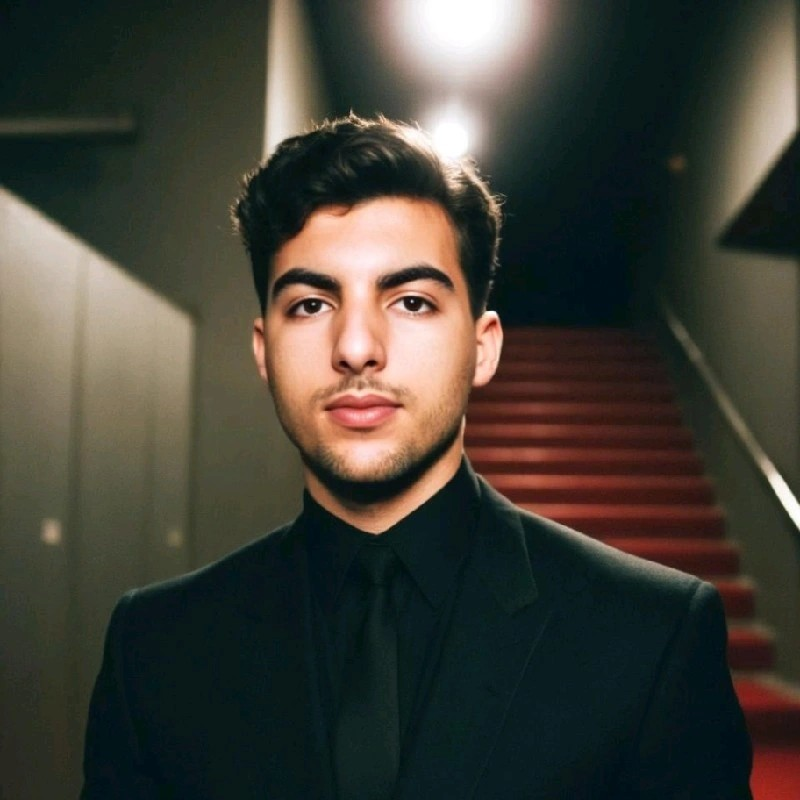
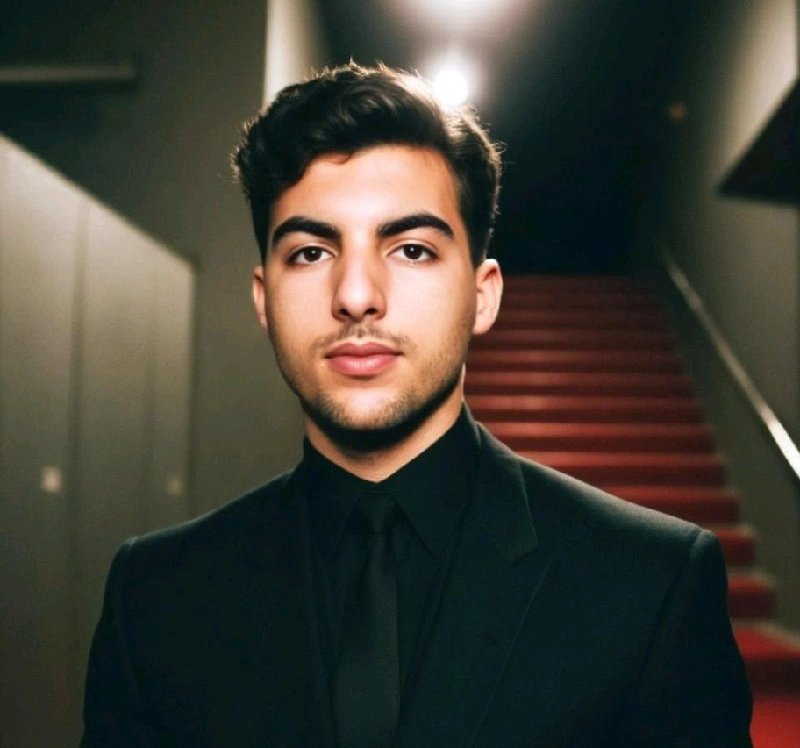
modification section participants

diff --git a/index.html b/index.html
@@ -19,6 +19,7 @@
 
   <div class="team-row" id="teamRow">
     <header class="team-intro">
+      <div class="eyebrow"><span class="num">02</span><span class="line"></span></div>
       <h2>Rencontrer <br>les participant·es</h2>
       <hr class="intro-divider">
       <p>Découvrez les profils des participantes et participants d'Initiative avenir, leurs parcours, leurs compétences et leurs ambitions professionnelles.</p>
@@ -47,8 +48,8 @@
     <p class="lead">Vous souhaitez soutenir Initiative Avenir et contribuer au parcours des participantes et participants? Faites-nous part de votre intérêt.</p>
 
     <div class="tagline">
-      <span>Ensemble,<br>on va plus loin.</span>
-      <svg width="46" height="16" viewBox="0 0 46 16" fill="none">
+      <!-- <span>Ensemble,<br>on va plus loin.</span> -->
+      <!-- <svg width="46" height="16" viewBox="0 0 46 16" fill="none"> -->
         <path d="M0 8H44M44 8L37 1M44 8L37 15" stroke="var(--color-primary)" stroke-width="2" stroke-linecap="round" stroke-linejoin="round"/>
       </svg>
     </div>

diff --git a/style.css b/style.css
@@ -101,7 +101,7 @@
   .team-intro{
     position:relative;
     flex:0 0 auto;
-    padding:0 0 0 15vw;
+    padding:0 15vw 0 15vw;
     box-sizing:border-box;
   }
   .team-intro h2{
@@ -115,7 +115,7 @@
   .team-intro p{
     font-size:20px;
     line-height:1.55;
-    color:var(--fg-dim);
+    color:var( --color-white);
     max-width:600px;
     margin:0 0px;
   }
@@ -139,7 +139,7 @@
     align-items:center;
     gap:var(--gap);
     margin:0;
-    padding:0 6vw 0 3vw;
+    padding:0 6vw 0 0vw;
     width:max-content;
     will-change:transform;
     touch-action:pan-y;
@@ -324,9 +324,9 @@
     margin:0;
     font-family:"Roboto Condensed", sans-serif;
     font-weight:200;
-    font-size:19px;
+    font-size: clamp(12px, 3vw, 24px);
     line-height:1.6;
-    color:var(--fg-dim);
+    color:var( --color-white);
     max-width:100%
   }
 
@@ -547,7 +547,7 @@
     color:var(--color-primary);
   }
  .involve-section .lead{
-  color:var(--i-text-dim);
+  color:var( --color-primary-dark);
   font-size:23px;
   line-height:1.6;
   max-width:50ch;

diff --git a/script.js b/script.js
@@ -360,6 +360,18 @@
         bio.style.opacity = '1';
       }, 300);
 
+      // 3. La piste vient de s'élargir (+420px) : on recalcule tout
+      //    de suite les bornes de glisser-déposer avec la largeur
+      //    cible, puis à nouveau une fois l'animation de largeur
+      //    terminée (transitionend), pour être exact même si
+      //    plusieurs cartes sont ouvertes coup sur coup.
+      computeBounds();
+      card.addEventListener('transitionend', function onOpenEnd(e){
+        if (e.propertyName !== 'width') return;
+        card.removeEventListener('transitionend', onOpenEnd);
+        computeBounds();
+      });
+
     }else{
       // 1. Le texte disparaît
       bio.style.opacity = '0';
